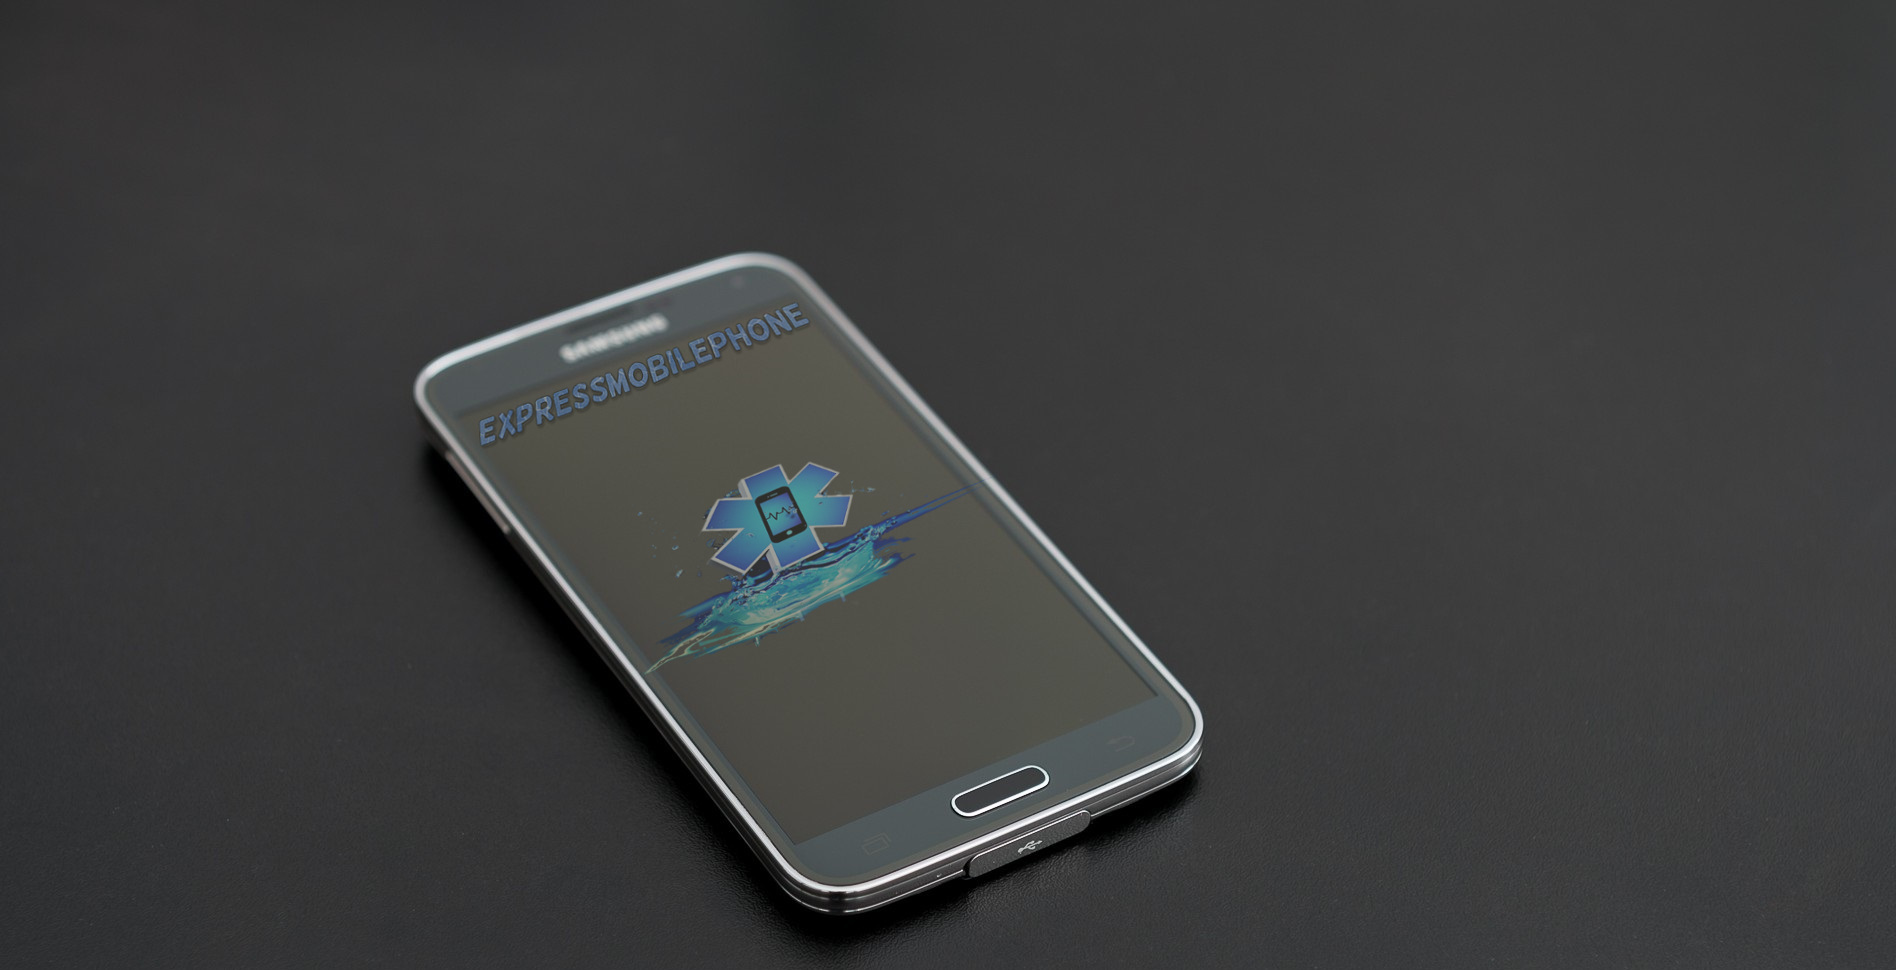
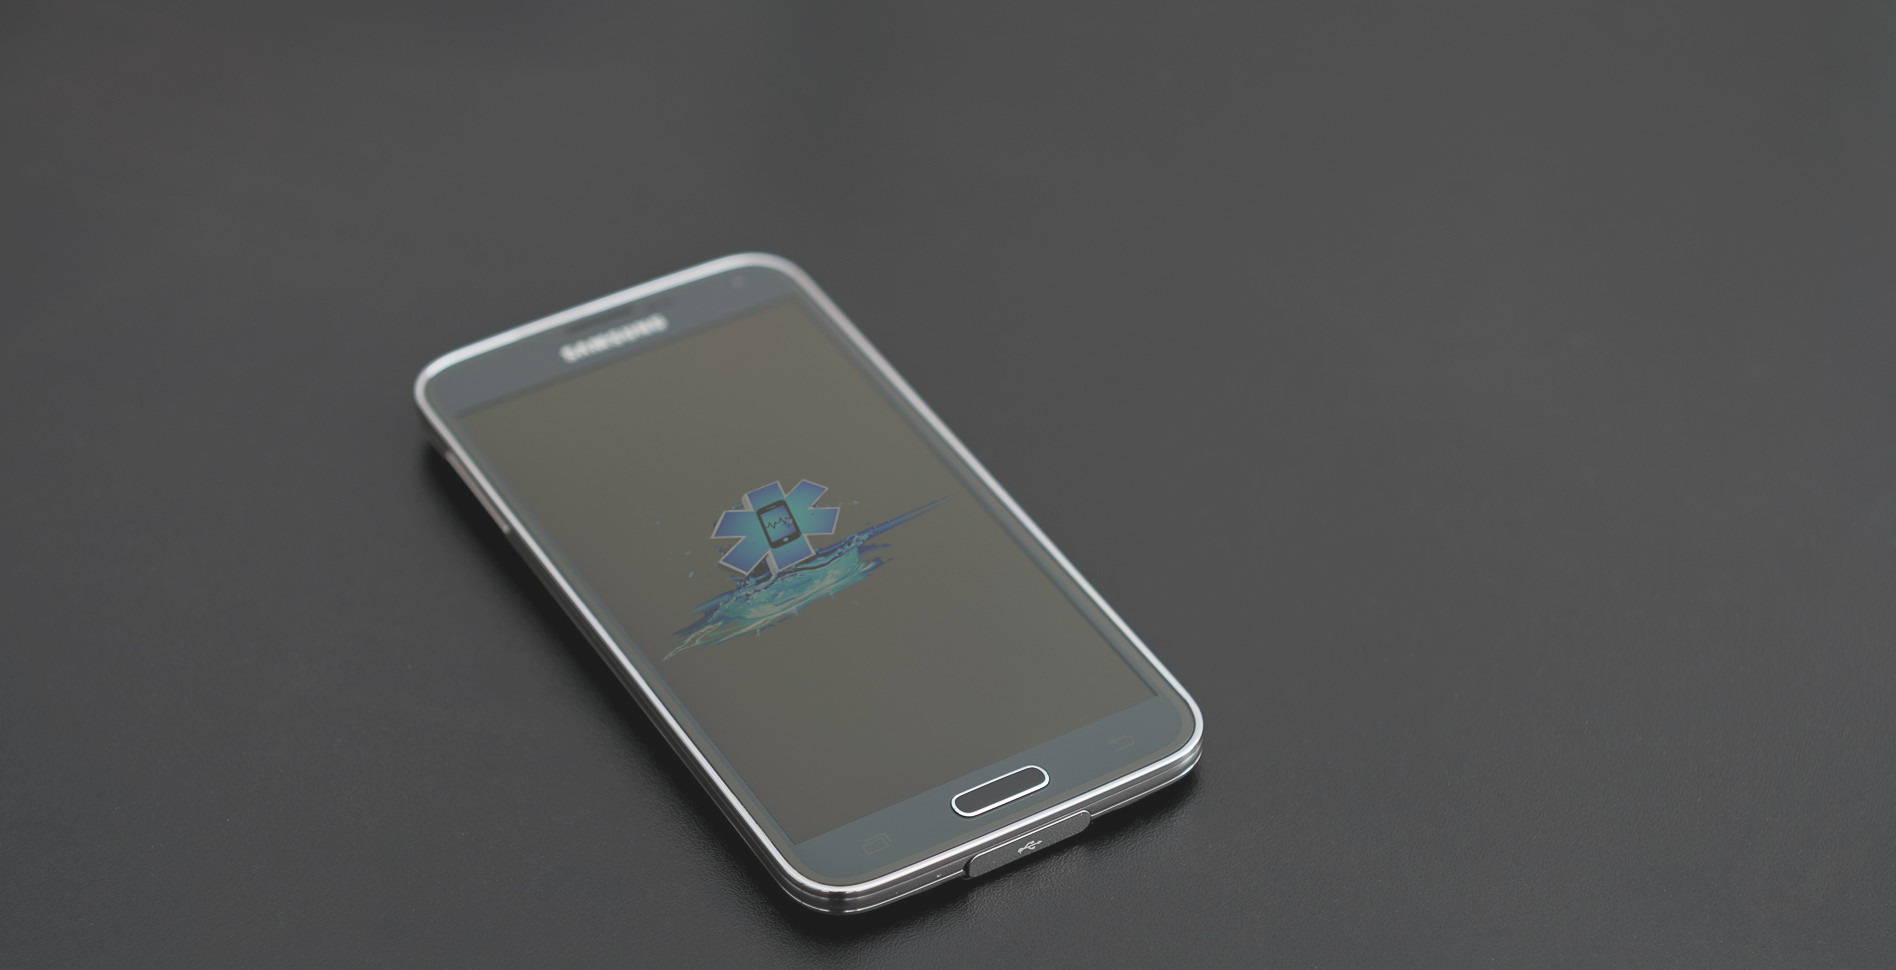
Changed images, added css .breadcrumbs, and h1-h6 font size and weight

Changed region(s): [[0.2178, 0.3093, 0.529, 0.9897], [0.529, 0.8041, 0.6535, 0.8969]]

diff --git a/app/assets/stylesheets/spree/frontend/frontend_bootstrap.css.scss b/app/assets/stylesheets/spree/frontend/frontend_bootstrap.css.scss
@@ -1,6 +1,7 @@
 //Add your custom bootstrap variables here, see https://github.com/twbs/bootstrap-sass/blob/master/assets/stylesheets/bootstrap/_variables.scss for full list of variables.
 
 @import "bootstrap-sprockets";
+@import "font-awesome";
 @import "variables";
 @import "bootstrap";
 
@@ -105,6 +106,7 @@ table {
 .list-group-item{
   text-align: center;
   color: white;
+  font-size: 17px;
    
 }
 
@@ -175,6 +177,8 @@ table {
     left: 50%;
     z-index: 3;
     color: #fff;
+    font-size: 6px;
+    font-family: sans-serif, Arial; 
     text-align: center;
     text-transform: uppercase;
     text-shadow: 1px 1px 0 rgba(0,0,0,.75);
@@ -332,5 +336,47 @@ table {
 			width: 100%;
 		}
 	}
-	
+.faqHeader {
+        font-size: 27px;
+        margin: 20px;
+    }
+
+    .panel-heading [data-toggle="collapse"]:after {
+        font-family: 'Glyphicons Halflings';
+        content: "e072"; /* "play" icon */
+        float: right;
+        color: #F58723;
+        font-size: 18px;
+        line-height: 22px;
+        /* rotate "play" icon from > (right arrow) to down arrow */
+        -webkit-transform: rotate(-90deg);
+        -moz-transform: rotate(-90deg);
+        -ms-transform: rotate(-90deg);
+        -o-transform: rotate(-90deg);
+        transform: rotate(-90deg);
+    }
+
+    .panel-heading [data-toggle="collapse"].collapsed:after {
+        /* rotate "play" icon from > (right arrow) to ^ (up arrow) */
+        -webkit-transform: rotate(90deg);
+        -moz-transform: rotate(90deg);
+        -ms-transform: rotate(90deg);
+        -o-transform: rotate(90deg);
+        transform: rotate(90deg);
+        color: #454444;
+    }	
+    
+    
+    h1, h2, h3, h4, h5 , h6{
+      
+      font-size: 20px;
+      font-weight: 700;
+      
+    }
+    
+    .breadcrumbs {
+      
+      text-align: center;
+      
+    }
 	

diff --git a/app/assets/stylesheets/spree/frontend.css b/app/assets/stylesheets/spree/frontend.css
@@ -1,5 +1,6 @@
 /*
 * This is a manifest file that includes stylesheets for spree_frontend
  *= require spree/frontend/frontend_bootstrap
+ *= require font-awesome
  *= require_self
 */

diff --git a/vendor/assets/stylesheets/spree/frontend/all.css b/vendor/assets/stylesheets/spree/frontend/all.css
@@ -7,4 +7,5 @@
 
  *= require_self
  *= require_tree .
+ *= require spree/frontend/spree_static_content
 */

diff --git a/db/schema.rb b/db/schema.rb
@@ -11,7 +11,7 @@
 #
 # It's strongly recommended that you check this file into your version control system.
 
-ActiveRecord::Schema.define(version: 20160510014119) do
+ActiveRecord::Schema.define(version: 20160528220664) do
 
   create_table "friendly_id_slugs", force: :cascade do |t|
     t.string   "slug",                      null: false
@@ -306,6 +306,36 @@ ActiveRecord::Schema.define(version: 20160510014119) do
   add_index "spree_orders", ["ship_address_id"], name: "index_spree_orders_on_ship_address_id"
   add_index "spree_orders", ["store_id"], name: "index_spree_orders_on_store_id"
   add_index "spree_orders", ["user_id", "created_by_id"], name: "index_spree_orders_on_user_id_and_created_by_id"
+
+  create_table "spree_pages", force: :cascade do |t|
+    t.string   "title"
+    t.text     "body"
+    t.string   "slug"
+    t.datetime "created_at",                               null: false
+    t.datetime "updated_at",                               null: false
+    t.boolean  "show_in_header",           default: false, null: false
+    t.string   "foreign_link"
+    t.integer  "position",                 default: 1,     null: false
+    t.boolean  "visible",                  default: true
+    t.string   "meta_keywords"
+    t.string   "meta_description"
+    t.string   "layout"
+    t.boolean  "show_in_sidebar",          default: false, null: false
+    t.string   "meta_title"
+    t.boolean  "render_layout_as_partial", default: false
+  end
+
+  add_index "spree_pages", ["slug"], name: "index_spree_pages_on_slug"
+
+  create_table "spree_pages_stores", id: false, force: :cascade do |t|
+    t.integer  "store_id"
+    t.integer  "page_id"
+    t.datetime "created_at", null: false
+    t.datetime "updated_at", null: false
+  end
+
+  add_index "spree_pages_stores", ["page_id"], name: "index_spree_pages_stores_on_page_id"
+  add_index "spree_pages_stores", ["store_id"], name: "index_spree_pages_stores_on_store_id"
 
   create_table "spree_payment_capture_events", force: :cascade do |t|
     t.decimal  "amount",     precision: 10, scale: 2, default: 0.0

diff --git a/db/migrate/20160528220654_extend_pages.spree_static_content.rb b/db/migrate/20160528220654_extend_pages.spree_static_content.rb
@@ -1,0 +1,28 @@
+# This migration comes from spree_static_content (originally 20090625125735)
+class ExtendPages < ActiveRecord::Migration
+  class Page < ActiveRecord::Base
+  end
+
+  def self.up
+    change_table :spree_pages do |t|
+      t.boolean :show_in_header, default: false, null: false
+      t.boolean :show_in_footer, default: false, null: false
+      t.string  :foreign_link
+      t.integer :position, default: 1, null: false
+      if Page.table_exists?
+        Page.order(:updated_at).each_with_index { |page, x| page.update_attribute(:position, x + 1) }
+      else
+        Spree::Page.order(:updated_at).each_with_index { |page, x| page.update_attribute(:position, x + 1) }
+      end
+    end
+  end
+
+  def self.down
+    change_table :spree_pages do |t|
+      t.remove :show_in_header
+      t.remove :show_in_footer
+      t.remove :foreign_link
+      t.remove :position
+    end
+  end
+end

diff --git a/db/migrate/20160528220662_add_render_as_partial_for_layout_for_spree_pages.spree_static_content.rb b/db/migrate/20160528220662_add_render_as_partial_for_layout_for_spree_pages.spree_static_content.rb
@@ -1,0 +1,14 @@
+# This migration comes from spree_static_content (originally 20120723144115)
+class AddRenderAsPartialForLayoutForSpreePages < ActiveRecord::Migration
+  def up
+    unless column_exists? :spree_pages, :render_layout_as_partial
+      add_column :spree_pages, :render_layout_as_partial, :boolean, default: false
+    end
+  end
+
+  def down
+    if column_exists? :spree_pages, :render_layout_as_partial
+      remove_column :spree_pages, :render_layout_as_partial
+    end
+  end
+end

diff --git a/db/migrate/20160528220655_add_visible_to_pages.spree_static_content.rb b/db/migrate/20160528220655_add_visible_to_pages.spree_static_content.rb
@@ -1,0 +1,18 @@
+# This migration comes from spree_static_content (originally 20090814113100)
+class AddVisibleToPages < ActiveRecord::Migration
+  class Page < ActiveRecord::Base
+  end
+
+  def self.up
+    add_column :spree_pages, :visible, :boolean
+    if Page.table_exists?
+      Page.update_all visible: true
+    else
+      Spree::Page.update_all visible: true
+    end
+  end
+
+  def self.down
+    remove_column :spree_pages, :visible
+  end
+end

diff --git a/db/migrate/20160528220663_add_pages_stores.spree_static_content.rb b/db/migrate/20160528220663_add_pages_stores.spree_static_content.rb
@@ -1,0 +1,13 @@
+# This migration comes from spree_static_content (originally 20140926121757)
+class AddPagesStores < ActiveRecord::Migration
+  def change
+    create_table :spree_pages_stores, id: false do |t|
+      t.integer :store_id
+      t.integer :page_id
+      t.timestamps null: false
+    end
+
+    add_index :spree_pages_stores, :store_id
+    add_index :spree_pages_stores, :page_id
+  end
+end

diff --git a/db/migrate/20160528220653_create_pages.spree_static_content.rb b/db/migrate/20160528220653_create_pages.spree_static_content.rb
@@ -1,0 +1,16 @@
+# This migration comes from spree_static_content (originally 20081216193152)
+class CreatePages < ActiveRecord::Migration
+  def self.up
+    create_table :spree_pages do |t|
+      t.string :title
+      t.text :body
+      t.string :slug
+
+      t.timestamps null: false
+    end
+  end
+
+  def self.down
+    drop_table :spree_pages
+  end
+end

diff --git a/db/migrate/20160528220664_remove_show_in_footer_from_spree_pages.spree_static_content.rb b/db/migrate/20160528220664_remove_show_in_footer_from_spree_pages.spree_static_content.rb
@@ -1,0 +1,10 @@
+# This migration comes from spree_static_content (originally 20160217113416)
+class RemoveShowInFooterFromSpreePages < ActiveRecord::Migration
+  def self.up
+    remove_column :spree_pages, :show_in_footer
+  end
+
+  def self.down
+    add_column :spree_pages, :show_in_footer, :boolean, default: false, null: false
+  end
+end

diff --git a/db/migrate/20160528220660_add_show_in_sidebar_option_to_pages.spree_static_content.rb b/db/migrate/20160528220660_add_show_in_sidebar_option_to_pages.spree_static_content.rb
@@ -1,0 +1,10 @@
+# This migration comes from spree_static_content (originally 20100323085528)
+class AddShowInSidebarOptionToPages < ActiveRecord::Migration
+  def self.up
+    add_column :spree_pages, :show_in_sidebar, :boolean, default: false, null: false
+  end
+
+  def self.down
+    remove_column :spree_pages, :show_in_sidebar
+  end
+end

diff --git a/db/migrate/20160528220658_add_meta_fields_to_pages.spree_static_content.rb b/db/migrate/20160528220658_add_meta_fields_to_pages.spree_static_content.rb
@@ -1,0 +1,10 @@
+# This migration comes from spree_static_content (originally 20091219021134)
+class AddMetaFieldsToPages < ActiveRecord::Migration
+  def self.up
+    add_column :spree_pages, :meta_keywords, :string
+    add_column :spree_pages, :meta_description, :string
+  end
+
+  def self.down
+  end
+end
